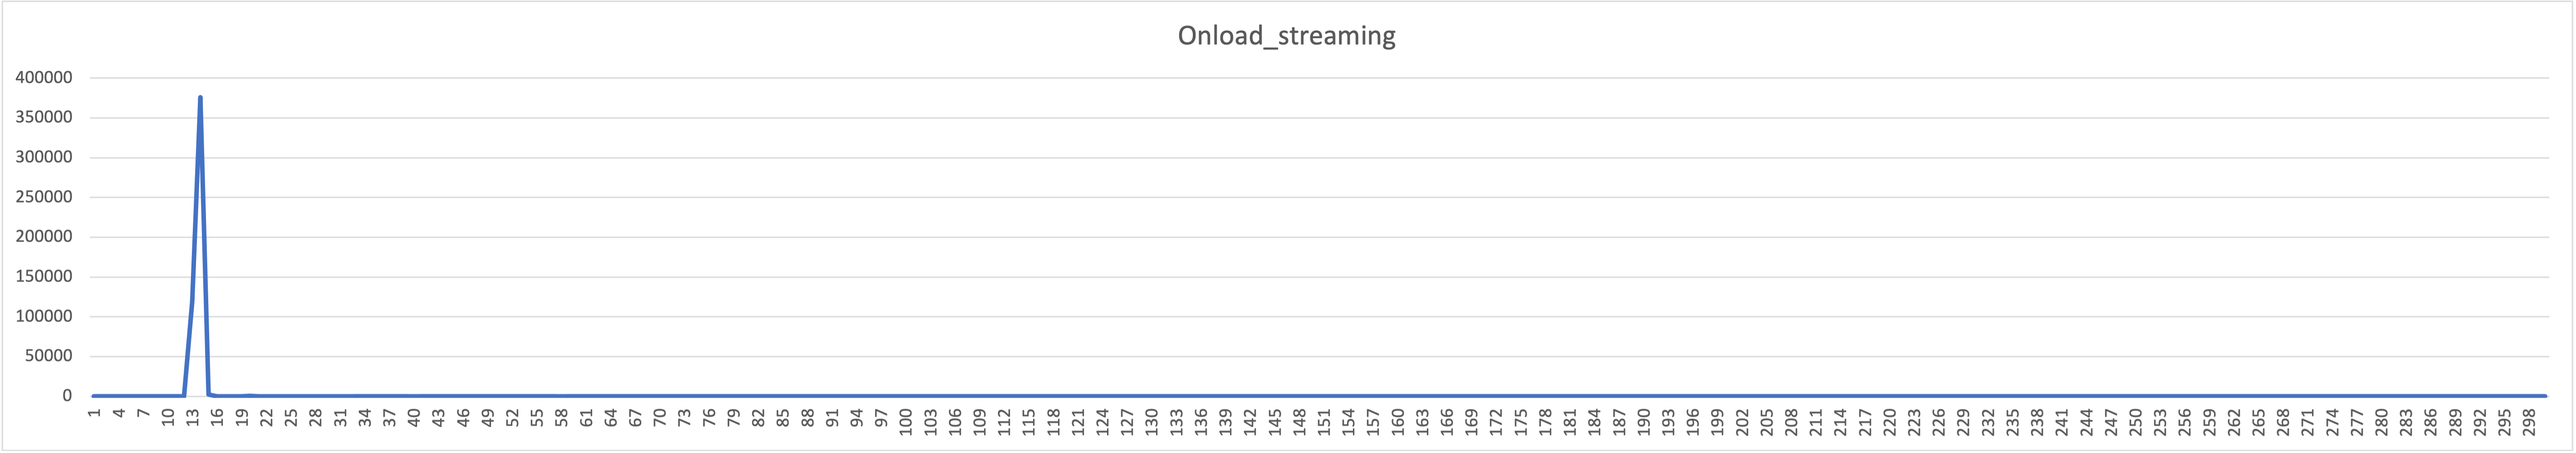
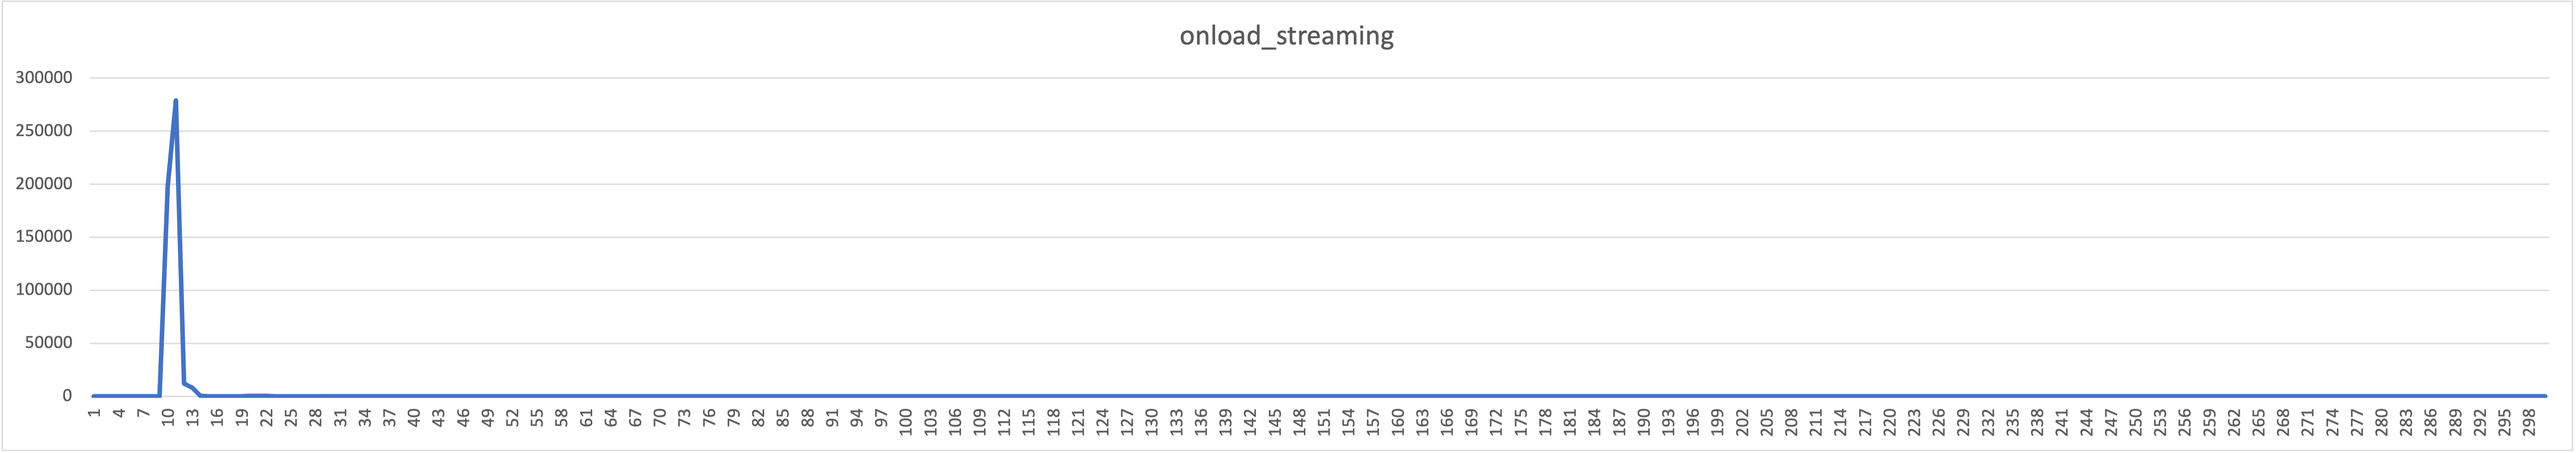
Updates

diff --git a/README.md b/README.md
@@ -82,7 +82,7 @@ The tests described below were run on Informatica hardware and gave the
 following results:
 
 * 12.1 microseconds one-way latency (with kernel network driver)
-* 6.6 microseconds one-way latency (with Onload user-mode driver)
+* 5.1 microseconds one-way latency (with Onload network driver)
 
 
 ### ENVIRONMENT
@@ -265,27 +265,27 @@ bypassing the kernel.
 
 Enter:
 ````
-onload ./um_lat_pong -s f -x um.xml -a 12 -E
+EF_POLL_USEC=-1 onload ./um_lat_pong -x um.xml -a 12 -E
 ````
 
 #### System 2 (ping)
 
 ````
-onload ./um_lat_ping -s f -A 4 -a 12 -x um.xml -m 24 -n 500000 -r 50000 -w 5,5 -H 300,1000 >ping.log; tail ping.log
+EF_POLL_USEC=-1 onload ./um_lat_ping -A 4 -a 12 -x um.xml -m 24 -n 500000 -r 50000 -w 5,5 -H 300,1000 >ping.log; tail ping.log
 ````
 
 Here's a sample of the output:
 ````
 ...
-o_histogram=300,1000, hist_overflows=0, hist_min_sample=10782, hist_max_sample=66451,
-hist_num_samples=500000, average_sample=13243,
-Percentiles: 90=13000, 99=14000, 99.9=23000, 99.99=28000, 99.999=32000
-actual_sends=500000, duration_ns=9999981122, result_rate=49999.994390, global_max_tight_sends=1, max_flight_size=500004
+o_histogram=300,1000, hist_overflows=0, hist_min_sample=8746, hist_max_sample=27440,
+hist_num_samples=500000, average_sample=10138,
+Percentiles: 90=10000, 99=12000, 99.9=21000, 99.99=25000, 99.999=26000
+actual_sends=500000, duration_ns=9999981187, result_rate=49999.994065, global_max_tight_sends=1, max_flight_size=500004
 Rcv: num_rcv_msgs=500004, num_rx_msgs=0, num_unrec_loss=0,
 ````
 
-This demonstrates 13,243 nanoseconds (13.2 microseconds) round-trip latency.
-A reasonable approximation of the one-way latency is simply half that: 6.6
+This demonstrates 10,138 nanoseconds (10.1 microseconds) round-trip latency.
+A reasonable approximation of the one-way latency is simply half that: 5.1
 microseconds.
 This is a significant improvement over the kernel driver.
 But also look at the percentiles.
